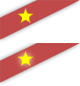
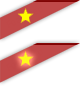
Use older way to handle star shinning effect
Older way may have a delay on image download

Changed region(s): [[0.4, 0.4651, 1.0, 0.5349], [0.2, 0.5814, 0.425, 0.7907], [0.4, 0.0, 1.0, 0.0233]]

diff --git a/css/pengx.css b/css/pengx.css
@@ -388,22 +388,23 @@ h2.title
 /* 精华帖缎带的效果 */
 .featured-ribbon {
   position: absolute;
-  background-image:url('/image/featured-small.png');
-  background-repeat: no-repeat;
+  background:url('/image/featured-small-full.png') no-repeat;
   width: 80px;
-  height: 43px;
+  height: 25px;
   margin-top: -26px;
   margin-left: -21px;
   padding-top: 15px;
   cursor: pointer;
   
+  /*
   -webkit-transition: all 0.2s ease-in-out;
      -moz-transition: all 0.2s ease-in-out;
        -o-transition: all 0.2s ease-in-out;
           transition: all 0.2s ease-in-out;
+  */
 }
 .featured-ribbon:hover {
-  background-image:url('/image/featured-small-hover.png');
+  background-position:0 -43px;
 }
 
 /* 因为我很爱用<del>, 我觉得得修饰一下。。 */
